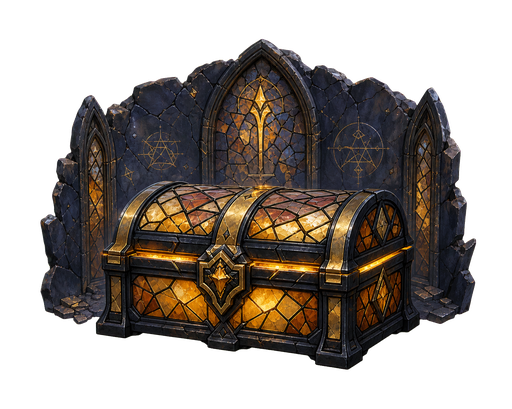
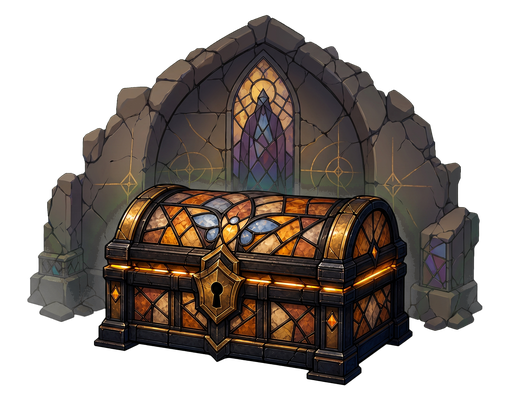
Promote matched treasure chest props

diff --git a/scratch/prop-chest-nanobanana-20260706/prompt-ledger.md b/scratch/prop-chest-nanobanana-20260706/prompt-ledger.md
@@ -1,0 +1,160 @@
+# Chest Nano Banana Alpha Pass
+
+Date: 2026-07-06
+
+Scope: regenerate only the closed `chest` prop, using the recent card-art
+workflow shape: built-in Image Gen source -> Nano Banana Pro image-to-image
+clean-up -> local alpha pipeline. The open chest is intentionally not generated
+in this pass.
+
+## Output Summary
+
+| Stage | Path | Notes |
+|---|---|---|
+| GPT source | `source/01-gpt-image-2-source.png` | Built-in Image Gen source on flat `#00ff00`. |
+| Nano pre-alpha | `nano/02-nanobanana-pre-alpha.png` | True PNG conversion for review; still has the flat `#00ff00` background. |
+| Nano original | `nano/02-nanobanana-pre-alpha-original.jpg` | Byte-for-byte original Nano output; the script returned JPEG bytes. |
+| Raw Nano response | `nano/02-nanobanana-response.json` | Stored raw API response. |
+| Selected full-size alpha | `final/03-alpha-cleaner-strong-despill.png` | Chroma-key alpha plus stronger green-spill cleanup. |
+| Runtime-size final | `final/chest-nanobanana-alpha-512x409.png` | Selected 512 x 409 RGBA candidate. |
+| Contact sheet | `review/chest-nanobanana-pipeline-contact.png` | Source, Nano pre-alpha, selected alpha, final. |
+
+## Story Lock
+
+The closed treasure chest is an old tribute coffer left by the tower's former
+order. Before opening, it should read as a quiet promise. Thin ward lines imply
+that reward in the tower is never completely innocent.
+
+This closed chest must remain pairable with a later `chest-open` pass: same low
+three-quarter angle, same horizontal footprint, same chapel alcove, same
+gold-black stained-glass coffer identity.
+
+## Step 1 Prompt - Built-In Image Gen
+
+```text
+Use case: stylized-concept
+Asset type: Spirebound runtime prop alpha-ready source, closed treasure chest, final target 512 x 409 RGBA after chroma-key removal
+Primary request: Create a closed treasure chest prop with a small narrative alcove backdrop. It must be suitable as the closed state for a later matching open-chest version.
+Story moment: An old tribute coffer left by the tower's former order sits sealed in a shallow cracked chapel alcove. Before opening, it reads as a quiet promise; thin ward lines imply the reward is not completely innocent.
+Scene/backdrop: The prop includes a compact shallow cracked chapel alcove immediately behind the chest, with a few broken glass tesserae and faint ward lines etched in the stone. This alcove is part of the prop vignette and must fade before the image edges. Outside the vignette is only flat chroma key.
+Subject: A low, heavy, closed stained-glass tribute chest; black lead frame; gold bands; amber light leaking from thin seams; strong simple readable silhouette; no open lid and no visible coins.
+Style/medium: Serious cartoon-gothic stained-glass game art; polished game prop illustration; heavy black lead outlines; large readable jewel-glass panes; matte painterly glass texture; warm amber rim light; painterly depth but not photorealistic.
+Composition/framing: Horizontal composition for 512 x 409 runtime art; centred low three-quarter view; chest occupies about 65-70% of the image width; alcove sits behind it and is lower contrast than the chest; generous padding on all sides; no cropped corners; readable at 128 px.
+Lighting/mood: Inviting but restrained; warm amber seam glow with cool blue-violet ambient shadows; slightly brightened interior values, not too dark.
+Color palette: Amber, gold, black lead, dark stone, muted blue-violet shadows, small pale glass highlights.
+Alpha/chroma instruction: Create on a perfectly flat solid #00ff00 chroma-key background for local background removal. The #00ff00 field must be one uniform colour with no shadows, gradients, texture, reflections, floor plane, lighting variation, halo, or vignette. Keep the chest and alcove fully separated from the #00ff00 field with crisp edges and transparent-friendly padding. Do not use #00ff00 anywhere in the chest, alcove, ward lines, glow, or glass.
+Constraints: no cast shadow, no contact shadow, no floor plane extending to edges, no text, no labels, no watermark, no UI, no card frame, no full rectangular room, no piles of coins, no crown/boss-tier ornament, no dark unreadable body, no photorealism, no anime card art.
+```
+
+Generated source:
+
+`/Users/jamesto/.codex/generated_images/019f3461-7cb7-7b62-97be-c2e5f810867d/ig_02e8c1fbeb3c9a41016a4be37c08688191823f7d0503aa076f.png`
+
+## Step 2 Prompt - Nano Banana Pro
+
+This is the recent card-art Nano pass pattern adapted for an alpha-ready prop.
+Unlike the approved full-background card pass, the Nano prompt explicitly carries
+forward the `#00ff00` alpha colour requirement.
+
+```text
+帮我将这张图片重绘和清晰化，让它细节更丰富，同时去掉原图中杂乱不必要的细节。重要：背景不是艺术内容，必须逐像素保持为纯 #00ff00 chroma-key 背景；不要把背景改成白色、灰色、黑色、渐变、地面或任何场景；背景必须完全平整、单一颜色、无渐变、无纹理、无光照、无光晕、无阴影。请严格延续第一步的 alpha-ready 要求：主体完整、无裁切、无地面、无地线、无接触阴影、无投影、无反射、无贴边雾气、无文字、无标签、无水印；不要在主体中使用 #00ff00。Style frame only: Spirebound runtime prop art; serious cartoon-gothic dark fantasy; stained-glass game illustration with chunky black lead lines, matte painterly glass panes, bold closed treasure chest foreground clearly separated from a quieter chapel alcove vignette, 3-5 large jewel-tone colour masses, warm amber rim light, crisp contrast, readable at 128px. Keep the input image's core composition, closed lid, low three-quarter angle, gold-black coffer silhouette, amber seam glow, cracked chapel alcove, faint ward-line story cues, palette family, and horizontal footprint. The alcove is part of the prop but must stay subordinate and fade before the image edge. Do not open the lid, do not add coins, text, UI, frame, border, watermark, card mockup, floor plane, cast shadow, or a full rectangular room.
+```
+
+Command:
+
+```bash
+python3 /Users/jamesto/.codex/skills/nanobanana/scripts/nanobanana.py generate \
+  --prompt "<prompt above>" \
+  --input-image scratch/prop-chest-nanobanana-20260706/source/01-gpt-image-2-source.png \
+  --model nanobanana-pro \
+  --ratio 5:4 \
+  --size 2K \
+  --output scratch/prop-chest-nanobanana-20260706/nano/02-nanobanana-pre-alpha.png \
+  --save-response scratch/prop-chest-nanobanana-20260706/nano/02-nanobanana-response.json \
+  --json
+```
+
+Observed model: `gemini-3-pro-image`.
+
+Nano preserved the green background, but returned JPEG bytes. The original bytes
+are kept as `nano/02-nanobanana-pre-alpha-original.jpg`, and a true PNG review
+copy is kept as `nano/02-nanobanana-pre-alpha.png`.
+
+## Step 3 Alpha Pipeline
+
+Baseline alpha candidates:
+
+```bash
+python3 /Users/jamesto/.codex/skills/imagegen/scripts/remove_chroma_key.py \
+  --input scratch/prop-chest-nanobanana-20260706/nano/02-nanobanana-pre-alpha.png \
+  --out scratch/prop-chest-nanobanana-20260706/final/03-alpha-soft.png \
+  --auto-key border \
+  --soft-matte \
+  --transparent-threshold 24 \
+  --opaque-threshold 220 \
+  --despill \
+  --force
+```
+
+```bash
+python3 /Users/jamesto/.codex/skills/imagegen/scripts/remove_chroma_key.py \
+  --input scratch/prop-chest-nanobanana-20260706/nano/02-nanobanana-pre-alpha.png \
+  --out scratch/prop-chest-nanobanana-20260706/final/03-alpha-edge-contract.png \
+  --auto-key border \
+  --soft-matte \
+  --transparent-threshold 24 \
+  --opaque-threshold 220 \
+  --despill \
+  --edge-contract 1 \
+  --force
+```
+
+Selected cleaner alpha:
+
+```bash
+python3 /Users/jamesto/.codex/skills/imagegen/scripts/remove_chroma_key.py \
+  --input scratch/prop-chest-nanobanana-20260706/nano/02-nanobanana-pre-alpha.png \
+  --out scratch/prop-chest-nanobanana-20260706/final/03-alpha-cleaner.png \
+  --auto-key border \
+  --soft-matte \
+  --transparent-threshold 32 \
+  --opaque-threshold 160 \
+  --despill \
+  --edge-contract 1 \
+  --force
+```
+
+The Nano pass left a soft green spill in the lower alcove haze. The selected
+alpha therefore uses an additional edge/spill cleanup that reduces green-channel
+dominance on surviving keyed pixels without changing the chest's amber glass,
+gold bands, or black leading.
+
+## Validation
+
+Runtime final:
+
+```text
+path: final/chest-nanobanana-alpha-512x409.png
+size: 512 x 409
+mode: RGBA
+corner alpha: 0, 0, 0, 0
+alpha bbox: (25, 12, 485, 388)
+alpha counts: 94,275 transparent; 11,050 partial; 104,083 opaque
+sha256: 63f4e1cdc1c9f71b81f22cdcf369ef60f5819029389ec8233af303da1f8bb219
+```
+
+Source hashes:
+
+```text
+809777d753284131d464952caab3f6a2221752deeb57b13b806f6312c3d54849  source/01-gpt-image-2-source.png
+b14f46f5f49ad2e25bbf78fd6edbee6c07e49fdc1eb7dcf83949c22598596eda  nano/02-nanobanana-pre-alpha-original.jpg
+5e6e925b0016d8059e87bc7033679780ae1eeb6d50012b664f4b038ed2fd648a  nano/02-nanobanana-pre-alpha.png
+63f4e1cdc1c9f71b81f22cdcf369ef60f5819029389ec8233af303da1f8bb219  final/chest-nanobanana-alpha-512x409.png
+```
+
+## Review Note
+
+The final is a strong closed-state candidate: the coffer stays closed, the
+silhouette is readable at runtime size, the chapel alcove now gives story, and
+the transparent edges are valid. Before promoting, regenerate or revise
+`chest-open` against this exact footprint so the closed/open pair does not jump.

diff --git a/scratch/prop-chest-open-gpt-image-2-20260706/prompt-ledger.md b/scratch/prop-chest-open-gpt-image-2-20260706/prompt-ledger.md
@@ -1,0 +1,112 @@
+# Chest-Open GPT Promotion
+
+Date: 2026-07-06
+
+Scope: `chest-open` was regenerated from the approved closed chest image using
+built-in GPT-image-2 image-to-image, then converted through the local alpha
+pipeline. This GPT opened state was selected for live promotion over the later
+Nano Banana opened variant because the blink validation kept the treasure chest
+footprint closer to the closed state.
+
+## Inputs And Outputs
+
+| Stage | Path | Notes |
+|---|---|---|
+| Closed reference | `../prop-chest-nanobanana-20260706/final/chest-nanobanana-alpha-512x409.png` | Identity reference used for the image-to-image generation. |
+| GPT source | `source/chest-open-gpt-image-2-review-source.png` | Built-in GPT-image-2 review source on green pre-alpha background. |
+| Soft alpha candidate | `final/chest-open-gpt-alpha-soft.png` | First local chroma-key alpha candidate. |
+| Edge-contract alpha candidate | `final/chest-open-gpt-alpha-edge-contract.png` | Cleaner alpha candidate used as the selected base. |
+| Selected full-size alpha | `final/chest-open-gpt-alpha.png` | Edge-contract alpha with semi-transparent green spill cleanup. |
+| Runtime-size final | `final/chest-open-gpt-alpha-512x409.png` | 512 x 409 RGBA candidate promoted to `src/assets/props/chest-open.png`. |
+| Blink validation | `review/chest-closed-gpt-open-validation-blink.gif` | Closed/open blink test with fixed centre and baseline guides. |
+| GPT/Nano comparison | `review/chest-open-gpt-vs-nano-runtime-comparison.png` | Closed, GPT opened, and Nano opened runtime comparison. |
+
+Original generated source:
+
+```text
+/Users/jamesto/.codex/generated_images/019f3461-7cb7-7b62-97be-c2e5f810867d/ig_00e6f0ed3c84810a016a4be6c4673881919939c8b4d44e4a43.png
+```
+
+## GPT-Image-2 Prompt
+
+```text
+Use the provided reference image as the edit target and style/identity reference. Generate an opened version of the same Spirebound treasure chest prop for review.
+
+Use case: precise-object-edit
+Asset type: Spirebound runtime prop review candidate for `chest-open`, intended final target 512 x 409 RGBA after later alpha processing
+Input image role: edit target and identity lock. Preserve the same chest design, same chapel alcove, same low three-quarter camera angle, same horizontal footprint, same stone arch silhouette, same gold-black stained-glass material language, same ward-line story cues, same palette family, and same transparent-edge vignette composition.
+
+Primary edit: Open the chest. The lid should be raised upward/backward but still visibly attached to the same coffer and still within roughly the same overall footprint. The chest must read as the open state of the exact same closed chest, not a redesign.
+
+Story moment: The old tribute coffer releases stored tower light rather than a messy pile of treasure. The player has claimed something sealed for a long time.
+
+Subject requirements: the same low heavy stained-glass tribute chest, now open; warm amber-white tower light rising from inside; a few simple card-like and relic-like silhouettes suspended in the glow. Keep the chest front, lock plate, gold bands, black lead lines, and side panels recognisably consistent with the reference.
+
+Scene/backdrop: preserve the same shallow cracked chapel alcove, now slightly illuminated by the warm released light. Keep the alcove lower contrast than the chest. The backdrop should still fade before the image edges.
+
+Composition/framing: centred, low three-quarter view matching the reference; horizontal prop image; no jump in object position versus the closed state; generous transparent-friendly padding; readable at 128 px. Keep the open lid below the top of the alcove arch so it does not make the asset too tall.
+
+Style/medium: serious cartoon-gothic stained-glass game art; chunky black lead outlines; matte painterly glass panes; polished game prop illustration; bright but controlled reward reveal.
+
+Lighting/mood: brighter than the closed chest, warm amber-white core glow, but not overexposed. Cool blue-violet shadows still visible at the alcove edges.
+
+Alpha/chroma request for this gpt-image-2 review source: if a background is needed, use a perfectly flat solid #00ff00 chroma-key field outside the prop vignette only. Do not use #00ff00 in the subject. No cast shadow, contact shadow, floor plane, text, labels, UI, watermark, frame, full rectangular room, scattered coin pile, huge explosion, or changed chest design.
+```
+
+## Alpha Pipeline
+
+Soft alpha candidate:
+
+```bash
+python3 /Users/jamesto/.codex/skills/imagegen/scripts/remove_chroma_key.py \
+  --input scratch/prop-chest-open-gpt-image-2-20260706/source/chest-open-gpt-image-2-review-source.png \
+  --out scratch/prop-chest-open-gpt-image-2-20260706/final/chest-open-gpt-alpha-soft.png \
+  --auto-key border \
+  --soft-matte \
+  --transparent-threshold 24 \
+  --opaque-threshold 220 \
+  --despill \
+  --force
+```
+
+Edge-contract candidate:
+
+```bash
+python3 /Users/jamesto/.codex/skills/imagegen/scripts/remove_chroma_key.py \
+  --input scratch/prop-chest-open-gpt-image-2-20260706/source/chest-open-gpt-image-2-review-source.png \
+  --out scratch/prop-chest-open-gpt-image-2-20260706/final/chest-open-gpt-alpha-edge-contract.png \
+  --auto-key border \
+  --soft-matte \
+  --transparent-threshold 32 \
+  --opaque-threshold 160 \
+  --despill \
+  --edge-contract 1 \
+  --force
+```
+
+The selected alpha is based on the edge-contract candidate. A narrow cleanup
+pass only desaturated green spill on semi-transparent edge pixels, preserving
+the central green relic gem.
+
+The 512 x 409 runtime candidate was fit from the selected alpha bbox to a
+475 x 380 content box and pasted at `(18, 8)`, matching the closed chest
+baseline at `y=388`.
+
+## Validation
+
+```text
+path: final/chest-open-gpt-alpha-512x409.png
+size: 512 x 409
+mode: RGBA
+corner alpha: 0, 0, 0, 0
+alpha bbox: (18, 8, 493, 388)
+alpha counts: 85,900 transparent; 5,574 partial; 117,934 opaque
+sha256: 19e5b5101463cba1845e4d535499964b2756ffdf7924bb4b8c65d710d73bfa50
+```
+
+Live promotion:
+
+```text
+src/assets/props/chest.png      63f4e1cdc1c9f71b81f22cdcf369ef60f5819029389ec8233af303da1f8bb219
+src/assets/props/chest-open.png 19e5b5101463cba1845e4d535499964b2756ffdf7924bb4b8c65d710d73bfa50
+```

diff --git a/src/assets/README.md b/src/assets/README.md
@@ -343,6 +343,14 @@ Asset source decisions:
   narrative backdrop that fades to transparent instead of a full rectangular
   scene. `chest` and `chest-open` are a matched treasure-state pair for the
   treasure screen.
+- `props/chest.png` and `props/chest-open.png` were revisited after the first
+  live prop promotion to improve the treasure-state match. The closed chest uses
+  the new GPT -> Nano Banana -> alpha result recorded in
+  `scratch/prop-chest-nanobanana-20260706/`; the opened chest uses the approved
+  GPT-image-2 source alpha recorded in
+  `scratch/prop-chest-open-gpt-image-2-20260706/`. The GPT opened state was
+  selected over the later Nano Banana opened variant after a closed/open blink
+  validation because it better preserves the chest footprint.
 - `events/*.png` is the complete event-art production set from
   `scratch/style-tests/event-production-20260706/`. Event art uses full
   narrative backgrounds rather than alpha cutouts. Every event now has a GPT